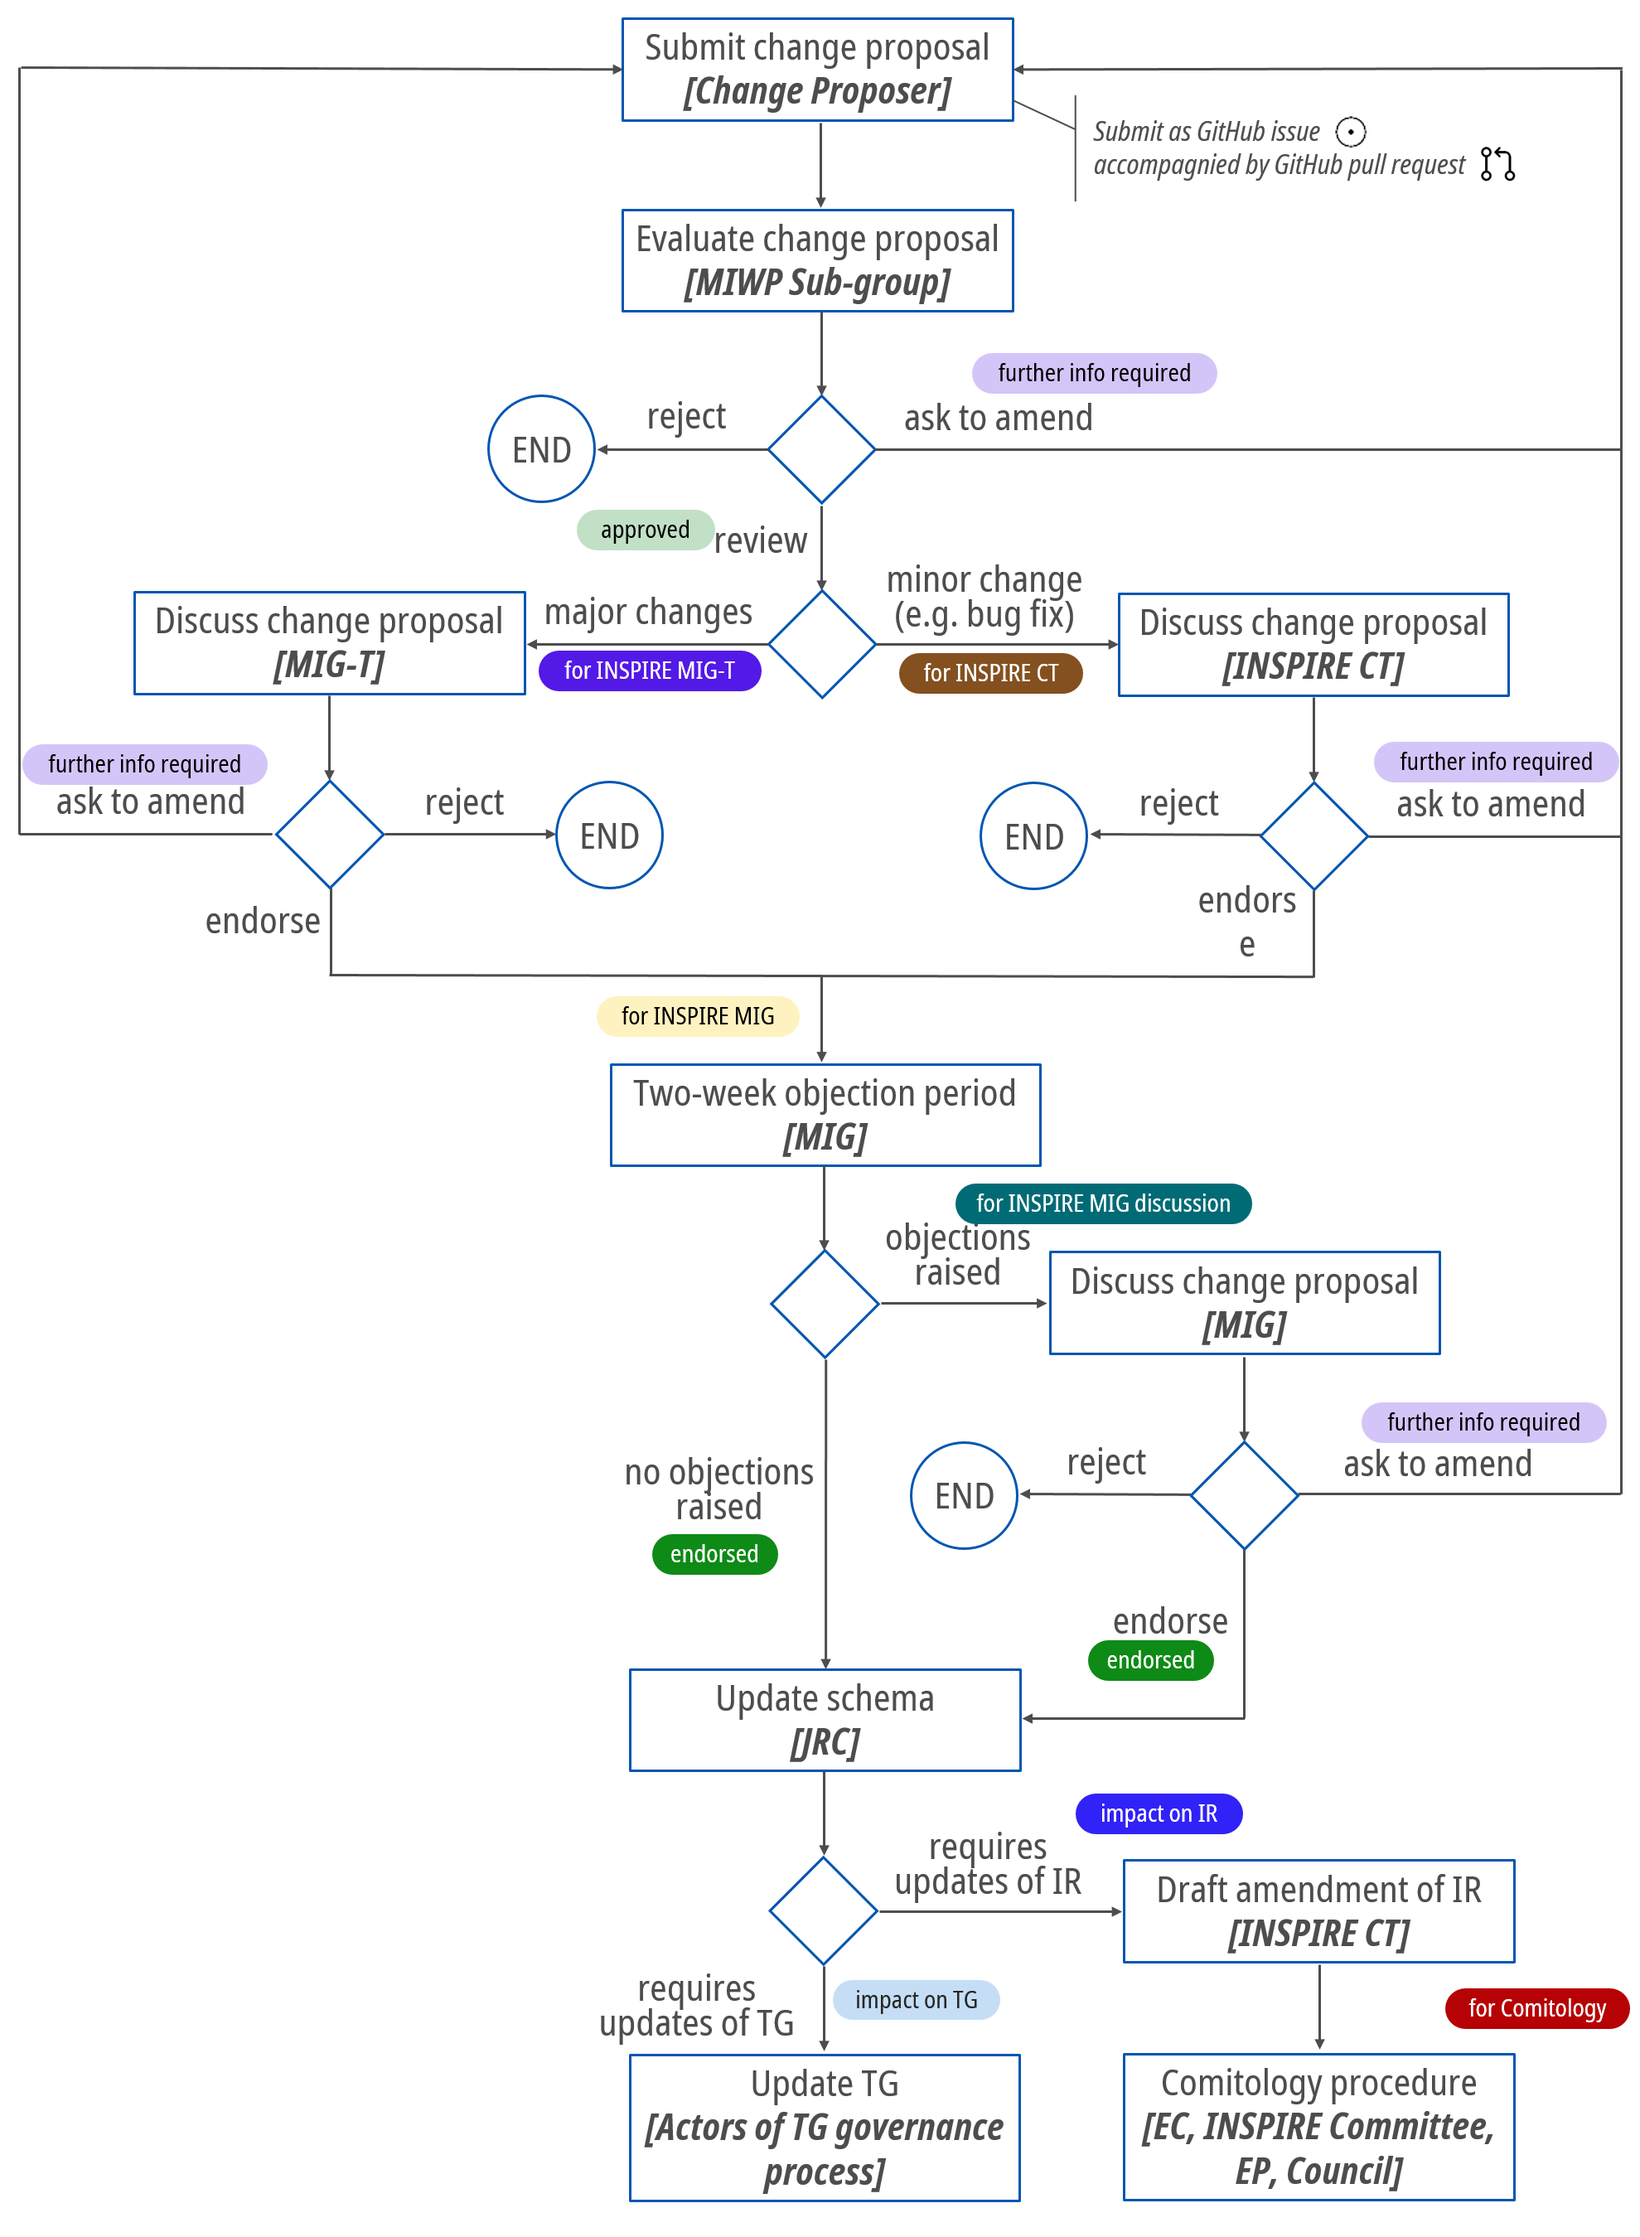
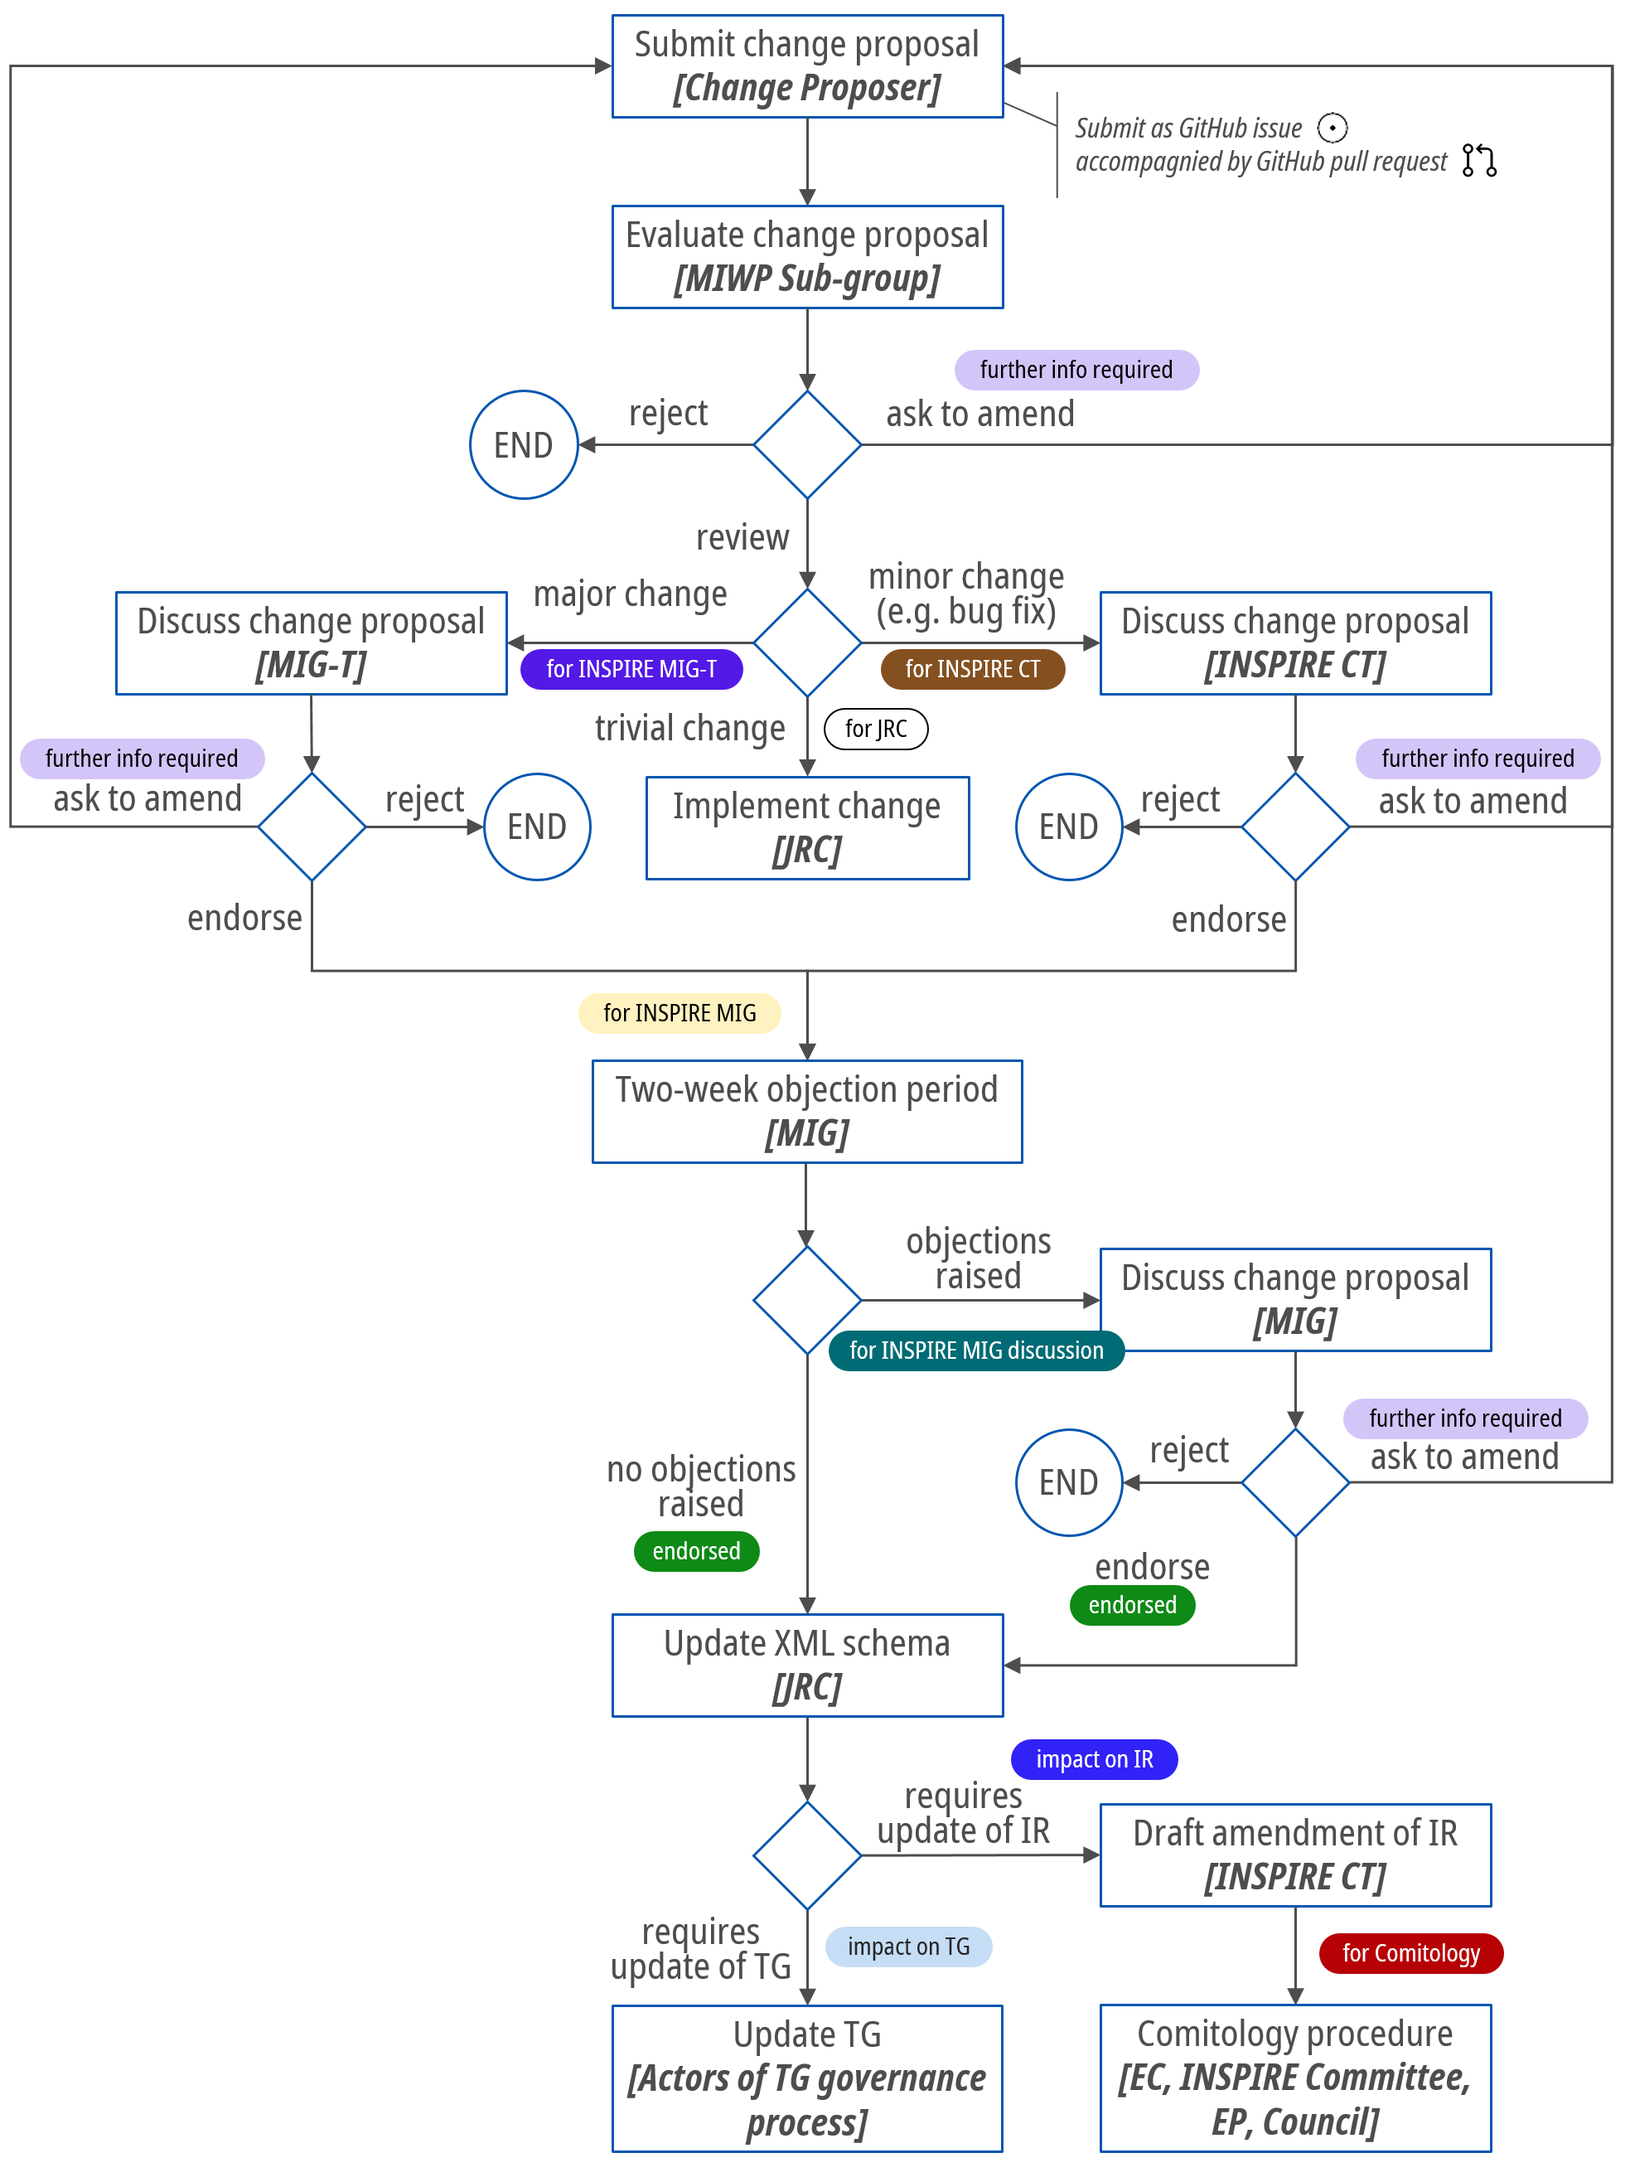
Update governance process: remove label "approved", add label "for JRC"

diff --git a/governance-release-process/process.md b/governance-release-process/process.md
@@ -12,11 +12,13 @@ The first actor involved in the governance process is the **change proposer**, i
 
 The next actor involved in the governance process is the **MIWP Sub-group of experts** (referred to as Sub-group in the following), supervised by the JRC and created within [Action 2.3 “Simplification of INSPIRE implementation”](https://webgate.ec.europa.eu/fpfis/wikis/display/InspireMIG/Action+2.3+Simplification+of+INSPIRE+implementation) of the [INSPIRE MIWP 2020-2024](https://webgate.ec.europa.eu/fpfis/wikis/display/InspireMIG/INSPIRE+work+programme+2021-24). The Sub-group shall evaluate the proposal and, in a first step, check whether: i) the change proposal is reasonable; and ii) the change proposal (including the impact) is correct, clear, described with a sufficient level of detail, and the impact of the change in the schema is the one described by the change proposer. To do so, the Sub-group shall interact with the change proposer and shall be closely supported by the INSPIRE **helpdesk facilitators**. The latter shall also contribute to the analysis of the change proposal and make sure it covers all the required points and is ready to be discussed by the Sub-group. All the interactions between the change proposer, the Sub-group and the helpdesk facilitators shall happen in the [issue tracker](https://github.com/INSPIRE-MIF/application-schemas/issues) of this repository, in the form of a discussion under the same issue initially created.
 
-If the change proposal (including the impact) is not reasonable and/or not correct, not clear, or not described with a sufficient level of detail, the Sub-group shall either reject it (in which case the issue will be closed) or ask the change proposer to improve it – with the help of the helpdesk facilitators – and submit it again. In this case, the GitHub label _further info required_ is used. On the opposite, if the change proposal is correct, clear and described with a sufficient level of detail, the GitHub label _approved_ will be used. At this point, depending on the type of change proposal to the schema, the workflow can follow two different paths (see below) based on a decision of the Sub-group. To determine what is the most suitable path for the specific type of change proposed, the Sub-group reserves the right to ask the change proposer for additional evidence or justification of the change proposal (to be given by e.g. a MIG/MIG-T member) and the GitHub label _further info required_ is used. No evidence shall instead be required in the cases of clear bugs to a schema (see below). The two paths are the following:
+If the change proposal (including the impact) is not reasonable and/or not correct, not clear, or not described with a sufficient level of detail, the Sub-group shall either reject it (in which case the issue will be closed) or ask the change proposer to improve it – with the help of the helpdesk facilitators – and submit it again. In this case, the GitHub label _further info required_ is used. On the opposite, if the change proposal is correct, clear and described with a sufficient level of detail, the workflow can follow three different paths (see below), depending on the type of change proposal and based on a decision of the Sub-group. To determine what is the most suitable path for the specific type of change proposed, the Sub-group reserves the right to ask the change proposer for additional evidence or justification of the change proposal (to be given by e.g. a MIG/MIG-T member) and the GitHub label _further info required_ is used. No evidence shall instead be required in the cases of clear bugs to a schema (see below). The three paths are the following:
 
-1) If the proposed change analysed by the Sub-group is obvious and minor, e.g. there is a clear bug to an application schema and the proposal is to fix it, with no impact on the TG and no impact on the IR, the Sub-group shall approve the change and invite the **INSPIRE Coordination Team (CT)** to endorse it. The GitHub label _for INSPIRE CT_ is used. The INSPIRE CT shall either: i) endorse the proposal; ii) reject the proposal; or iii) ask the change proposer to amend the proposal and submit it again. If the change proposal is rejected by the INSPIRE CT, the issue is closed and the whole process ends; if the INSPIRE CT asks that the change proposal is amended, the GitHub label _further info required_ is used and the change proposer shall amend it according to the feedback received and submit it again.
+1) If the proposed change analysed by the Sub-group is trivial (e.g. a change in the repository structure), i.e. it does not need to be discussed but is added merely for the purpose of informing the users of the change, the Sub-group takes notice of the change, and the GitHub label _for JRC_ is assigned. The **JRC** shall then implement the change, and once this is done, the issue is closed.
+
+2) If the proposed change analysed by the Sub-group is obvious and minor, e.g. there is a clear bug to an application schema and the proposal is to fix it, with no impact on the TG and no impact on the IR, the Sub-group shall approve the change and invite the **INSPIRE Coordination Team (CT)** to endorse it. The GitHub label _for INSPIRE CT_ is used. The INSPIRE CT shall either: i) endorse the proposal; ii) reject the proposal; or iii) ask the change proposer to amend the proposal and submit it again. If the change proposal is rejected by the INSPIRE CT, the issue is closed and the whole process ends; if the INSPIRE CT asks that the change proposal is amended, the GitHub label _further info required_ is used and the change proposer shall amend it according to the feedback received and submit it again.
  
-2) If the proposed change analysed by the Sub-group is major, i.e. it impacts the TG and/or the IR, the following actor in the process is the **INSPIRE MIG-T**. The GitHub label _for INSPIRE MIG-T_ is The change proposal is presented by the Sub-group (ideally together with the original change proposer) to the MIG-T during the second or the fourth MIG-T meetings of the year, indicatively taking place in April and October. The MIG-T members, who will receive the rationale for the change proposal in written form before the meeting, will be able to ask questions and discuss with the change proposer and express themselves in favor or against the change proposal. An overall decision (in favor/against) from the MIG-T shall be taken during the meeting through a voting process, where MIG-T members voting against the proposal or abstaining from voting need to provide justification. The MIG-T shall either: i) endorse the proposal; ii) reject the proposal, in which case the issue is closed; or iii) ask the change proposer to amend the proposal and submit it again, in which case the GitHub label _further info required_ is used. If the change proposal is rejected by the MIG-T, the whole process ends; if the MIG-T asks that the change proposal is amended, the change proposer shall amend it according to the feedback received and submit it again. 
+3) If the proposed change analysed by the Sub-group is major, i.e. it impacts the TG and/or the IR, the following actor in the process is the **INSPIRE MIG-T**. The GitHub label _for INSPIRE MIG-T_ is The change proposal is presented by the Sub-group (ideally together with the original change proposer) to the MIG-T during the second or the fourth MIG-T meetings of the year, indicatively taking place in April and October. The MIG-T members, who will receive the rationale for the change proposal in written form before the meeting, will be able to ask questions and discuss with the change proposer and express themselves in favor or against the change proposal. An overall decision (in favor/against) from the MIG-T shall be taken during the meeting through a voting process, where MIG-T members voting against the proposal or abstaining from voting need to provide justification. The MIG-T shall either: i) endorse the proposal; ii) reject the proposal, in which case the issue is closed; or iii) ask the change proposer to amend the proposal and submit it again, in which case the GitHub label _further info required_ is used. If the change proposal is rejected by the MIG-T, the whole process ends; if the MIG-T asks that the change proposal is amended, the change proposer shall amend it according to the feedback received and submit it again. 
 
 If the change proposal is endorsed by the INSPIRE CT or by the MIG-T, respectively in cases 1) and 2) above, the GitHub label _for INSPIRE MIG_ is used. The **INSPIRE MIG** is informed about the change proposal and a two-week time window starts, during which MIG members can raise objections to the proposal. If at least one objection is raised during the two-week time window, the GitHub label _for INSPIRE MIG discussion_ is used and the change proposal is discussed at the first MIG meeting immediately following the two-week time window. An overall decision (in favor/against) from the MIG shall be taken during the meeting through a voting process, where MIG members voting against the proposal or abstaining from voting need to provide justification. The MIG shall either: i) endorse the proposal, in which case the GitHub label _endorsed_ is used; ii) reject the proposal, in which case the issue is closed; or iii) ask the change proposer to amend the proposal and submit it again, in which case the GitHub label _further info required_ is used. If the change proposal is rejected by the MIG, the whole process ends; if the MIG asks that the change proposal is amended, the change proposer shall amend it according to the feedback received and submit it again.
 
